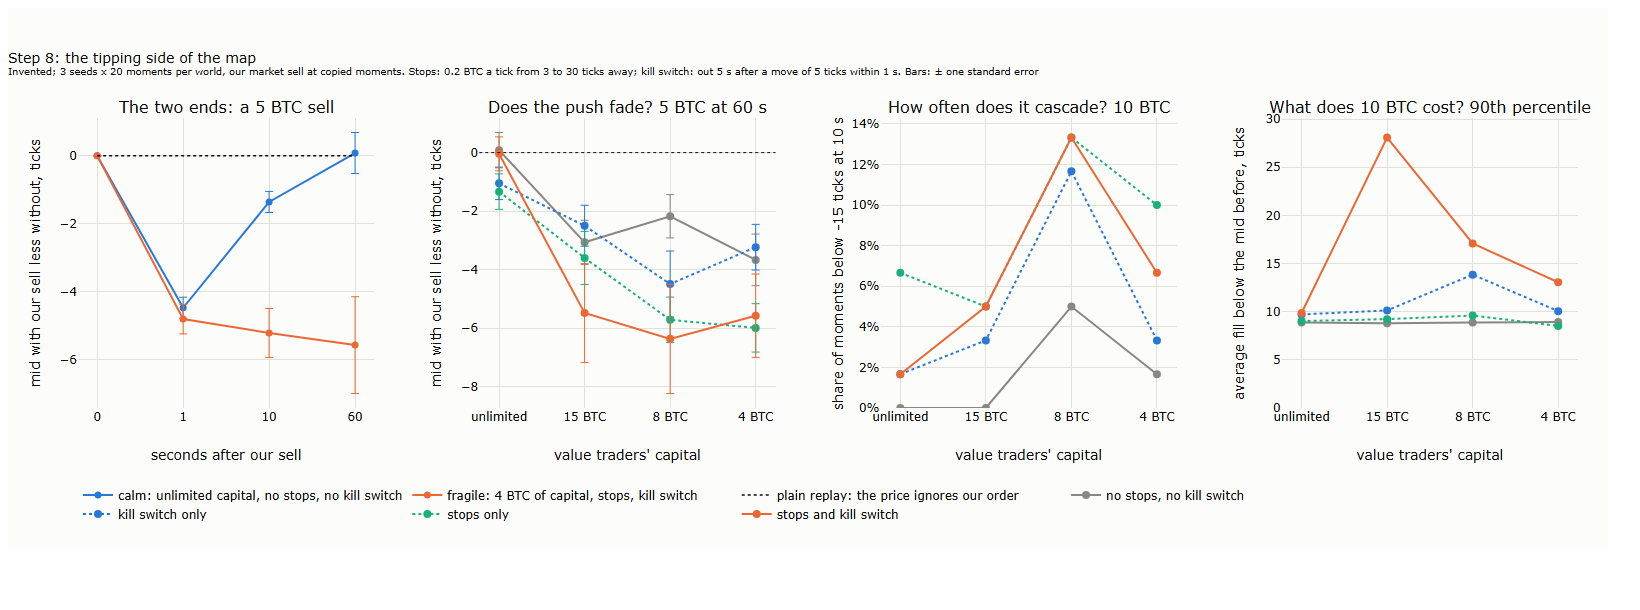
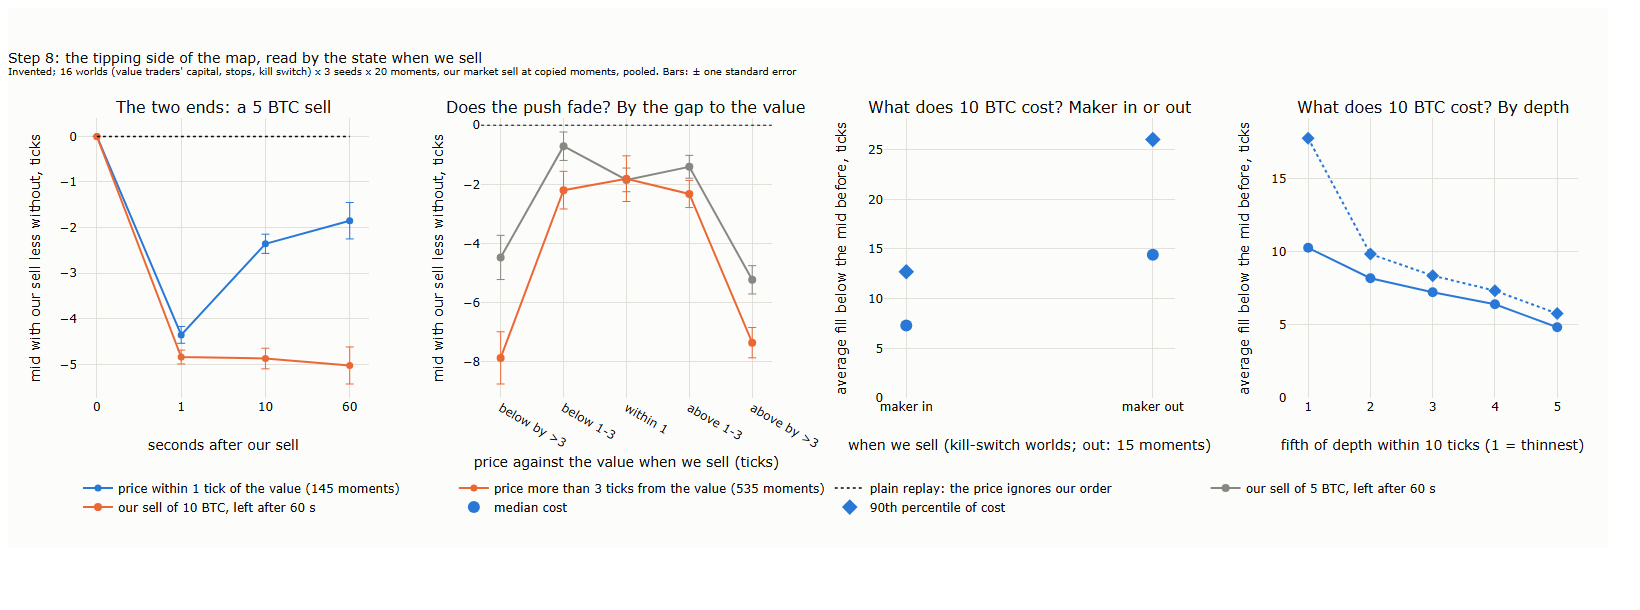
Lecture 22 laboratory market, step 8 chart read by the state when we sell

diff --git a/lectures/22-a-market-that-reacts/scripts/l22_sim_step8.py b/lectures/22-a-market-that-reacts/scripts/l22_sim_step8.py
@@ -55,22 +55,32 @@ if __name__ == "__main__":
             if key(*w) in R: continue
             R[key(*w)] = one_world(*w); OUT.write_text(json.dumps(R), encoding="utf-8"); v = R[key(*w)]["sizes"]
             print(key(*w), {z: (round(v[z]["resp"][2], 2), round(v[z]["cascade"], 2), [round(c, 1) for c in v[z]["cost_p"]]) for z in v}, flush=True)
-    fig = make_subplots(rows=1, cols=4, horizontal_spacing=0.07, subplot_titles=("The two ends: a 5 BTC sell", "Does the push fade? 5 BTC at 60 s", "How often does it cascade? 10 BTC", "What does 10 BTC cost? 90th percentile"))
-    for (w, nm, c) in (((0.0, 0.0, 0), "calm: unlimited capital, no stops, no kill switch", SERIES[0]), ((4.0, 0.2, 5), "fragile: 4 BTC of capital, stops, kill switch", SERIES[1])):
-        v = R[key(*w)]["sizes"]["5"]; fig.add_scatter(x=[0, 1, 10, 60], y=[0] + v["resp"], error_y=dict(type="data", array=[0] + v["resp_se"], color=c, thickness=1), mode="lines+markers",
-                                                      line=dict(color=c, width=2), marker=dict(color=c, size=7), name=nm, row=1, col=1)
+    M = [dict(mo, w=k) for k, v in R.items() for mo in v["moments"]]; gap = np.array([m["gap"] for m in M]); r5 = np.array([m["r5"] for m in M]); r10 = np.array([m["r10"] for m in M])
+    c10 = np.array([m["c10"] for m in M], float); out = np.array([m["maker_out"] for m in M]); dep = np.array([m["depth"] for m in M]); kill = np.array([k.endswith("|5") for k in (m["w"] for m in M)])
+    se = lambda x: x.std(ddof=1) / np.sqrt(len(x))
+    fig = make_subplots(rows=1, cols=4, horizontal_spacing=0.075, subplot_titles=("The two ends: a 5 BTC sell", "Does the push fade? By the gap to the value", "What does 10 BTC cost? Maker in or out",
+                                                                               "What does 10 BTC cost? By depth"))
+    for sel, nm, c in ((np.abs(gap) <= 1, "price within 1 tick of the value", SERIES[0]), (np.abs(gap) > 3, "price more than 3 ticks from the value", SERIES[1])):
+        x = r5[sel]; fig.add_scatter(x=[0, 1, 10, 60], y=[0] + x.mean(0).tolist(), error_y=dict(type="data", array=[0] + (x.std(0, ddof=1) / np.sqrt(len(x))).tolist(), color=c, thickness=1),
+                                     mode="lines+markers", line=dict(color=c, width=2), marker=dict(color=c, size=7), name=f"{nm} ({sel.sum()} moments)", row=1, col=1)
     fig.add_scatter(x=[0, 1, 10, 60], y=[0] * 4, mode="lines", line=dict(color=INK, width=1.5, dash="dot"), name="plain replay: the price ignores our order", row=1, col=1)
     fig.update_xaxes(title_text="seconds after our sell", type="category", row=1, col=1); fig.update_yaxes(title_text="mid with our sell less without, ticks", row=1, col=1)
-    for (dens, kill), c, d, nm in (((0.0, 0), MUTED, "solid", "no stops, no kill switch"), ((0.0, 5), SERIES[0], "dot", "kill switch only"), ((0.2, 0), SERIES[2], "dot", "stops only"), ((0.2, 5), SERIES[1], "solid", "stops and kill switch")):
-        ws = [R[key(cap, dens, kill)]["sizes"] for cap in CAPS]
-        fig.add_scatter(x=cap_lab, y=[w["5"]["resp"][2] for w in ws], error_y=dict(type="data", array=[w["5"]["resp_se"][2] for w in ws], color=c, thickness=1), mode="lines+markers",
-                        line=dict(color=c, width=2, dash=d), marker=dict(color=c, size=8), name=nm, row=1, col=2)
-        fig.add_scatter(x=cap_lab, y=[w["10"]["cascade"] for w in ws], mode="lines+markers", line=dict(color=c, width=2, dash=d), marker=dict(color=c, size=8), showlegend=False, row=1, col=3)
-        fig.add_scatter(x=cap_lab, y=[w["10"]["cost_p"][1] for w in ws], mode="lines+markers", line=dict(color=c, width=2, dash=d), marker=dict(color=c, size=8), showlegend=False, row=1, col=4)
-    for c in (2, 3, 4): fig.update_xaxes(title_text="value traders' capital", row=1, col=c)
+    bins = [(-99, -3, "below by >3"), (-3, -1, "below 1-3"), (-1, 1, "within 1"), (1, 3, "above 1-3"), (3, 99, "above by >3")]
+    for z, arr, c in (("5 BTC", r5, MUTED), ("10 BTC", r10, SERIES[1])):
+        ys = [arr[(gap > a) & (gap <= b), 2] for a, b, _ in bins]
+        fig.add_scatter(x=[b[2] for b in bins], y=[y.mean() for y in ys], error_y=dict(type="data", array=[se(y) for y in ys], color=c, thickness=1), mode="lines+markers", line=dict(color=c, width=2),
+                        marker=dict(color=c, size=8), name=f"our sell of {z}, left after 60 s", row=1, col=2)
     fig.add_hline(y=0, line=dict(color=INK, width=1, dash="dot"), row=1, col=2)
-    fig.update_yaxes(title_text="mid with our sell less without, ticks", row=1, col=2); fig.update_yaxes(title_text=f"share of moments below {CASCADE} ticks at 10 s", tickformat=".0%", rangemode="tozero", row=1, col=3)
-    fig.update_yaxes(title_text="average fill below the mid before, ticks", rangemode="tozero", row=1, col=4)
-    fig.update_layout(title="Step 8: the tipping side of the map<br><sup>Invented; 3 seeds x 20 moments per world, our market sell at copied moments. Stops: 0.2 BTC a tick from 3 to 30 ticks away; kill switch: out 5 s after a move of 5 ticks within 1 s. "
-                      "Bars: ± one standard error</sup>", height=540, width=1600, margin=dict(t=110, l=70, r=30, b=140), legend=dict(orientation="h", y=-0.25, x=0))
+    fig.update_xaxes(title_text="price against the value when we sell (ticks)", row=1, col=2); fig.update_yaxes(title_text="mid with our sell less without, ticks", row=1, col=2)
+    for q, sym, nm in ((50, "circle", "median cost"), (90, "diamond", "90th percentile of cost")):
+        sel = [kill & ~out, kill & out]
+        fig.add_scatter(x=["maker in", "maker out"], y=[np.nanpercentile(c10[s], q) for s in sel], mode="markers", marker=dict(color=SERIES[0], size=12, symbol=sym), name=nm, row=1, col=3)
+        qs = np.quantile(dep, [0.2, 0.4, 0.6, 0.8]); f = np.digitize(dep, qs)
+        fig.add_scatter(x=[f"{i + 1}" for i in range(5)], y=[np.nanpercentile(c10[f == i], q) for i in range(5)], mode="lines+markers", line=dict(color=SERIES[0], width=2, dash="solid" if q == 50 else "dot"),
+                        marker=dict(color=SERIES[0], size=10, symbol=sym), showlegend=False, row=1, col=4)
+    fig.update_xaxes(title_text=f"when we sell (kill-switch worlds; out: {int((kill & out).sum())} moments)", row=1, col=3)
+    fig.update_xaxes(title_text="fifth of depth within 10 ticks (1 = thinnest)", row=1, col=4)
+    for c in (3, 4): fig.update_yaxes(title_text="average fill below the mid before, ticks", rangemode="tozero", row=1, col=c)
+    fig.update_layout(title="Step 8: the tipping side of the map, read by the state when we sell<br><sup>Invented; 16 worlds (value traders' capital, stops, kill switch) x 3 seeds x 20 moments, our market sell at copied moments, "
+                      "pooled. Bars: ± one standard error</sup>", height=540, width=1600, margin=dict(t=110, l=70, r=30, b=150), legend=dict(orientation="h", y=-0.27, x=0))
     save_figure(fig, L.PREFIX + "22_sim_step8", L.FIG)
